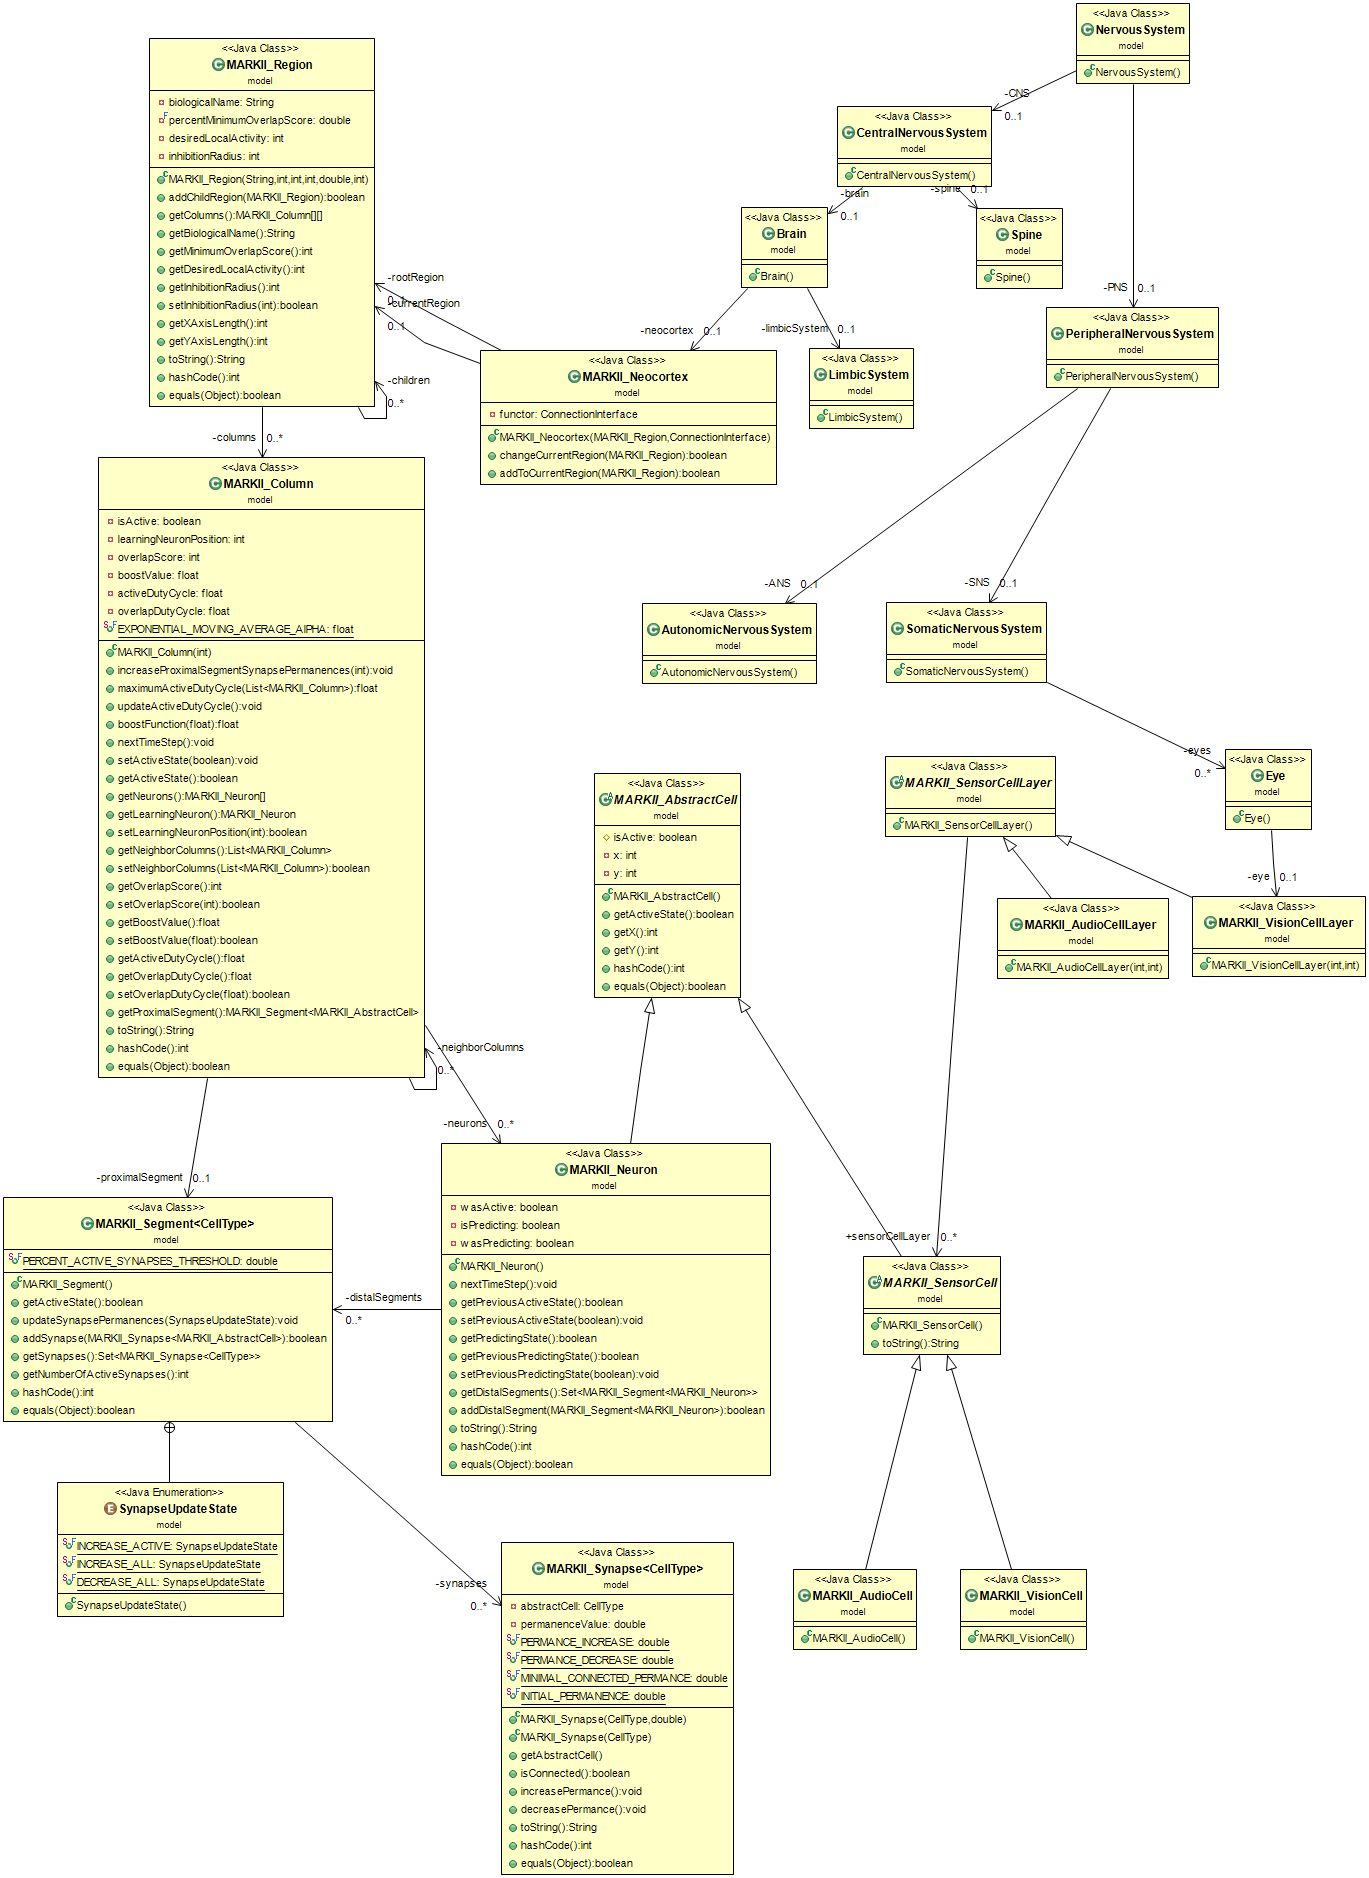
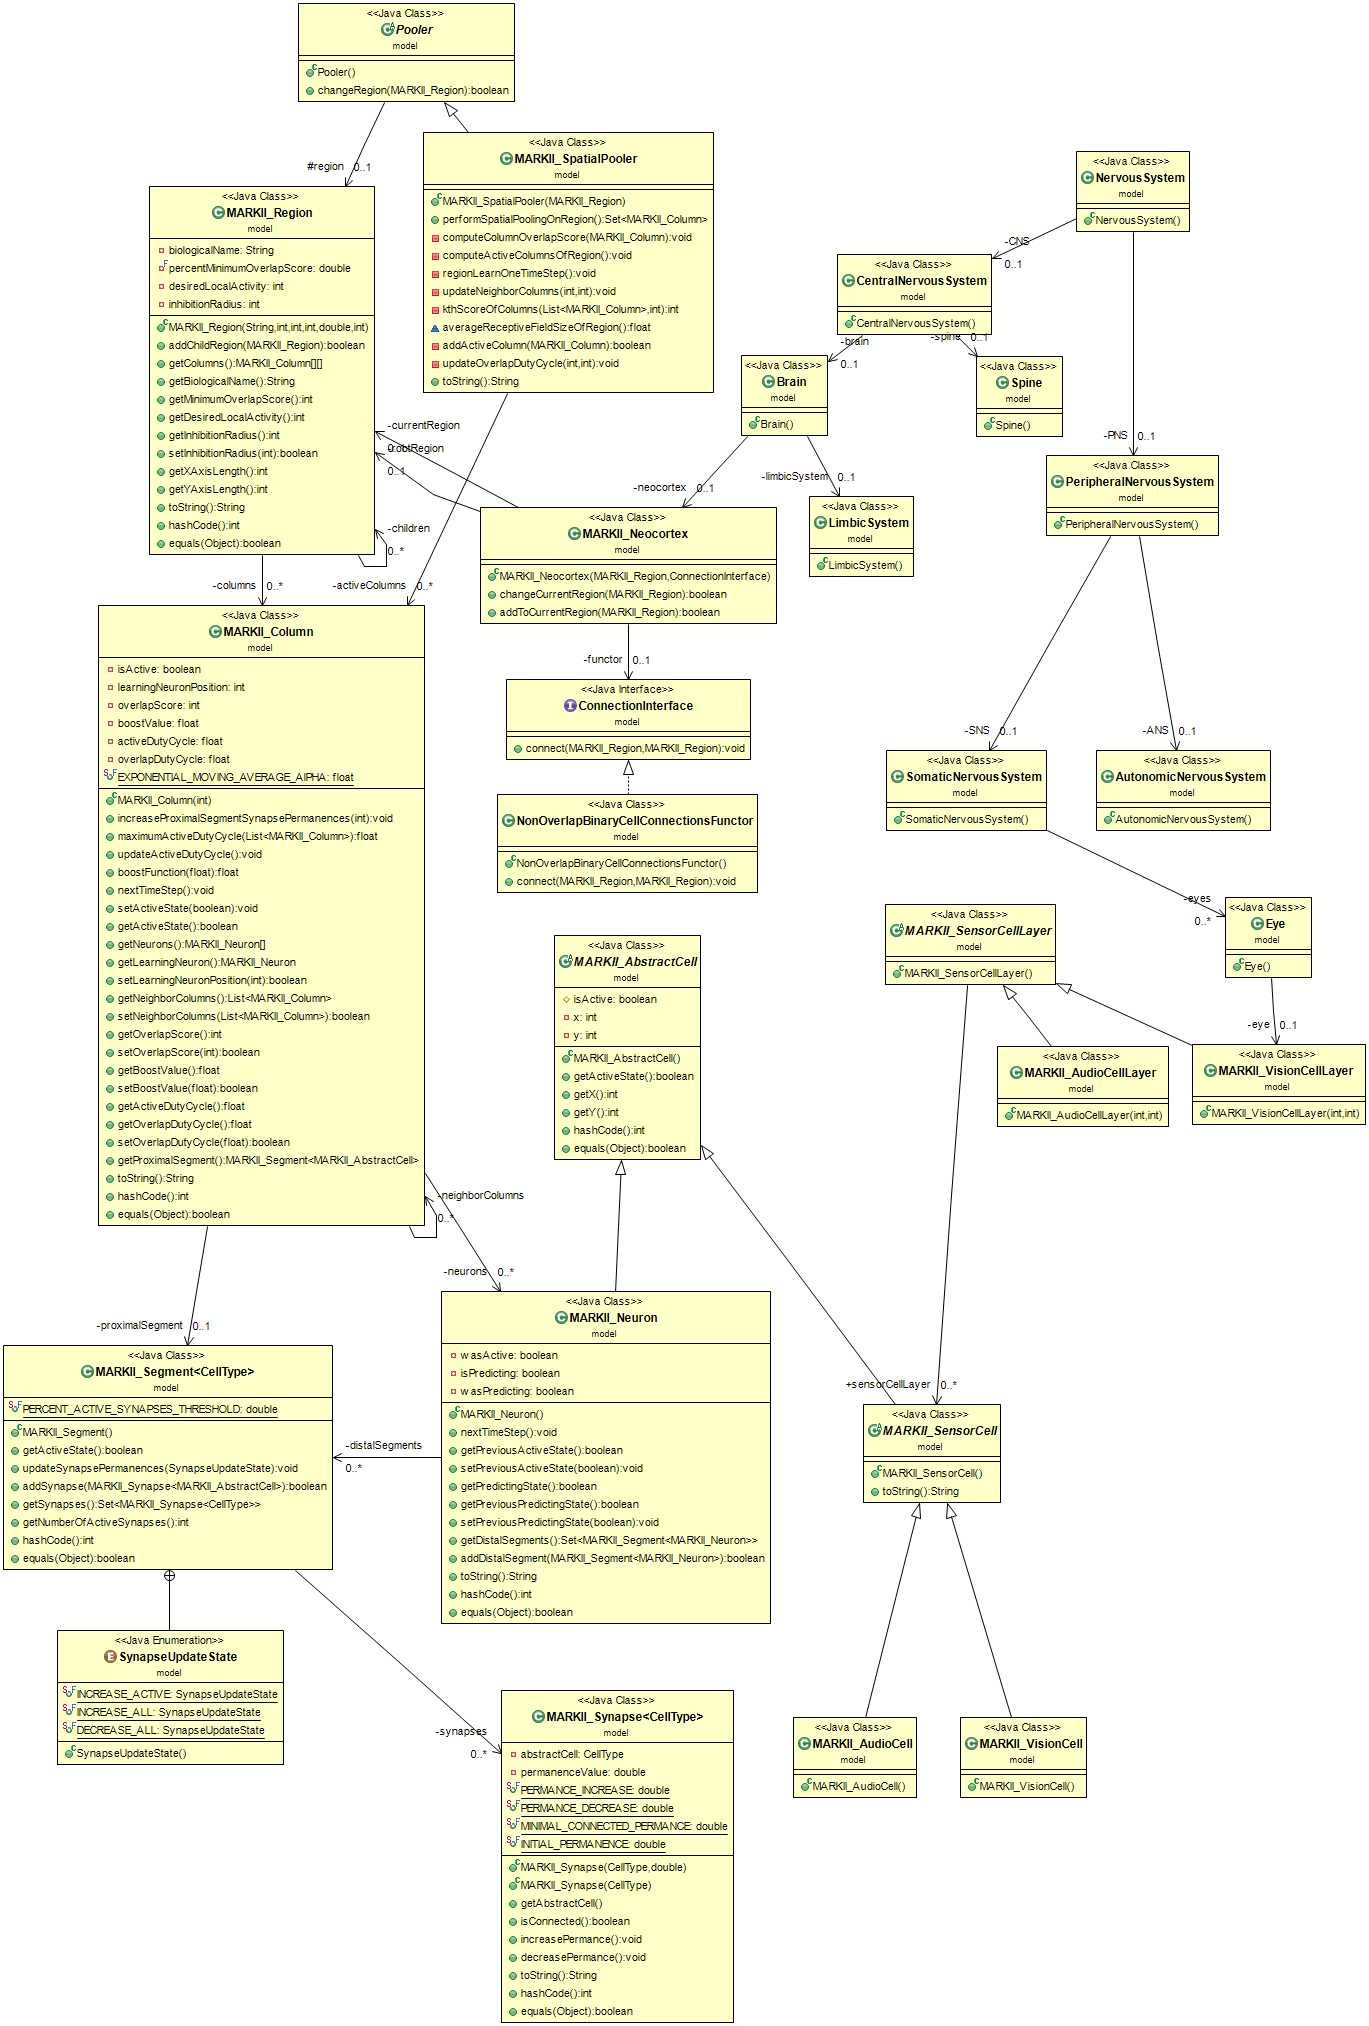
Updated comments!

diff --git a/WalnutiQ/src/model/MARKII_Synapse.java b/WalnutiQ/src/model/MARKII_Synapse.java
@@ -58,7 +58,7 @@ public class MARKII_Synapse<CellType extends MARKII_AbstractCell> implements
      */
     public MARKII_Synapse(CellType abstractCell, double initialPermanence) {
 	this.abstractCell = abstractCell;
-	this.permanenceValue = initialPermanence;
+	this.setPermanenceValue(initialPermanence);
     }
 
     /**
@@ -71,7 +71,7 @@ public class MARKII_Synapse<CellType extends MARKII_AbstractCell> implements
      */
     public MARKII_Synapse(CellType abstractCell) {
 	this.abstractCell = abstractCell;
-	this.permanenceValue = INITIAL_PERMANENCE;
+	this.setPermanenceValue(INITIAL_PERMANENCE);
     }
 
     /**
@@ -93,7 +93,7 @@ public class MARKII_Synapse<CellType extends MARKII_AbstractCell> implements
      */
     public boolean isConnected()
     {
-	return (this.permanenceValue >= MINIMAL_CONNECTED_PERMANCE);
+	return (this.getPermanenceValue() >= MINIMAL_CONNECTED_PERMANCE);
     }
 
     /**
@@ -101,8 +101,8 @@ public class MARKII_Synapse<CellType extends MARKII_AbstractCell> implements
      * while forcing permanenceValue to always be < 1.0.
      */
     public void increasePermance() {
-	this.permanenceValue = Math.min(1.0, this.permanenceValue
-		+ PERMANCE_INCREASE);
+	this.setPermanenceValue(Math.min(1.0, this.getPermanenceValue()
+		+ PERMANCE_INCREASE));
     }
 
     /**
@@ -110,8 +110,8 @@ public class MARKII_Synapse<CellType extends MARKII_AbstractCell> implements
      * while forcing permanenceValue to always be > 0.0.
      */
     public void decreasePermance() {
-	this.permanenceValue = Math.max(0.0, this.permanenceValue
-		- PERMANCE_DECREASE);
+	this.setPermanenceValue(Math.max(0.0, this.getPermanenceValue()
+		- PERMANCE_DECREASE));
     }
 
     @Override
@@ -123,7 +123,7 @@ public class MARKII_Synapse<CellType extends MARKII_AbstractCell> implements
 	stringBuilder.append("\n       Connected to a: ");
 	stringBuilder.append("this.abstractCell.toString()");
 	stringBuilder.append("\n      permanenceValue: ");
-	stringBuilder.append(this.permanenceValue);
+	stringBuilder.append(this.getPermanenceValue());
 	stringBuilder.append("\n          isConnected: ");
 	if (this.getAbstractCell() == null) {
 	    stringBuilder.append("false");
@@ -142,7 +142,7 @@ public class MARKII_Synapse<CellType extends MARKII_AbstractCell> implements
 	result = prime * result
 		+ ((abstractCell == null) ? 0 : abstractCell.hashCode());
 	long temp;
-	temp = Double.doubleToLongBits(permanenceValue);
+	temp = Double.doubleToLongBits(getPermanenceValue());
 	result = prime * result + (int) (temp ^ (temp >>> 32));
 	return result;
     }
@@ -161,9 +161,17 @@ public class MARKII_Synapse<CellType extends MARKII_AbstractCell> implements
 		return false;
 	} else if (!abstractCell.equals(other.abstractCell))
 	    return false;
-	if (Double.doubleToLongBits(permanenceValue) != Double
-		.doubleToLongBits(other.permanenceValue))
+	if (Double.doubleToLongBits(getPermanenceValue()) != Double
+		.doubleToLongBits(other.getPermanenceValue()))
 	    return false;
 	return true;
+    }
+
+    public double getPermanenceValue() {
+	return permanenceValue;
+    }
+
+    public void setPermanenceValue(double permanenceValue) {
+	this.permanenceValue = permanenceValue;
     }
 }

diff --git a/WalnutiQ/src/model/MARKII_SpatialPooler.java b/WalnutiQ/src/model/MARKII_SpatialPooler.java
@@ -9,7 +9,15 @@ import java.util.List;
 import java.util.Set;
 import java.util.HashSet;
 
-public class MARKII_SpatialPooler extends Pooler {
+/**
+ * Provides implementation for running the spatial learning algorithm on a
+ * region. This class provides methods that simulate brain activity within
+ * the neocortex for object recognition.
+ *
+ * @author Quinn Liu (quinnliu@vt.edu)
+ * @version MARK II | April 28, 2013
+ */
+public class MARKII_SpatialPooler extends MARKII_Pooler {
     private Set<MARKII_Column> activeColumns;
 
     public MARKII_SpatialPooler(MARKII_Region newRegion) {
@@ -248,7 +256,7 @@ public class MARKII_SpatialPooler extends Pooler {
      *
      * @return The average connected receptive field size.
      */
-    float averageReceptiveFieldSizeOfRegion() {
+    private float averageReceptiveFieldSizeOfRegion() {
 	double totalSynapseDistanceFromOriginColumn = 0.0;
 	int numberOfSynapses = 0;
 	MARKII_Column[][] columns = this.region.getColumns();

diff --git a/WalnutiQ/src/model/MARKII_NonOverlapBinaryCellConnectionsFunctor.java b/WalnutiQ/src/model/MARKII_NonOverlapBinaryCellConnectionsFunctor.java
@@ -1,6 +1,14 @@
 package model;
 
-public class NonOverlapBinaryCellConnectionsFunctor implements
+/**
+ * A functor class that provides the implementation for connecting a lower
+ * region to a higher region with non-overlaping proximal segments.
+ *
+ * @author Quinn Liu (quinnliu@vt.edu)
+ * @author Michael Cogswell (cogswell@vt.edu)
+ * @version MARK II | April 28, 2013
+ */
+public class MARKII_NonOverlapBinaryCellConnectionsFunctor implements
 	ConnectionInterface {
     // connect two regions with overlap as undirected bipartite graph
     public void connect(MARKII_Region parentRegion, MARKII_Region childRegion) {

diff --git a/WalnutiQ/src/model/MARKII_SensorCellLayer.java b/WalnutiQ/src/model/MARKII_SensorCellLayer.java
@@ -2,6 +2,13 @@ package model;
 
 import java.io.Serializable;
 
+/**
+ * A data structure that represents a layer of input bits from an external sensor
+ * source.
+ *
+ * @author Quinn Liu (quinnliu@vt.edu)
+ * @version MARK II | April 4, 2013
+ */
 public abstract class MARKII_SensorCellLayer implements Serializable {
     public MARKII_SensorCell[][] sensorCellLayer;
 

diff --git a/WalnutiQ/src/model/MARKII_Pooler.java b/WalnutiQ/src/model/MARKII_Pooler.java
@@ -1,6 +1,12 @@
 package model;
 
-public abstract class Pooler {
+/**
+ * Abstract class extended by SpatialPooler and TemporalPooler class.
+ *
+ * @author Quinn Liu (quinnliu@vt.edu)
+ * @version MARK II | April 28, 2013
+ */
+public abstract class MARKII_Pooler {
     protected MARKII_Region region;
 
     // TODO: how to make this code parallel

diff --git a/WalnutiQ/src/model/MARKII_VisionCellLayer.java b/WalnutiQ/src/model/MARKII_VisionCellLayer.java
@@ -1,5 +1,11 @@
 package model;
 
+/**
+ * A data structure that represents the layer of cells within the retina.
+ *
+ * @author Quinn Liu (quinnliu@vt.edu)
+ * @version MARK II | April 4, 2013
+ */
 public class MARKII_VisionCellLayer extends MARKII_SensorCellLayer {
 
     public MARKII_VisionCellLayer(int numberOfVisionCellsAlongXAxis,

diff --git a/WalnutiQ/tests/model/Test_MARKII_Segment.java b/WalnutiQ/tests/model/Test_MARKII_Segment.java
@@ -2,7 +2,7 @@ package model;
 
 import model.MARKII_Segment.SynapseUpdateState;
 
-public class TestMARKII_Segment extends junit.framework.TestCase{
+public class Test_MARKII_Segment extends junit.framework.TestCase{
 
 //    private MARKII_Segment<MARKII_AbstractCell> proximalSegment;
 //

diff --git a/WalnutiQ/src/model/MARKII_VisionCell.java b/WalnutiQ/src/model/MARKII_VisionCell.java
@@ -1,5 +1,11 @@
 package model;
 
+/**
+ * A data structure that represents a single cell within the retina.
+ *
+ * @author Quinn Liu (quinnliu@vt.edu)
+ * @version MARK II | April 4, 2013
+ */
 public class MARKII_VisionCell extends MARKII_SensorCell {
 
     public MARKII_VisionCell()

diff --git a/WalnutiQ/src/model/TemporalPooler.java b/WalnutiQ/src/model/TemporalPooler.java
@@ -2,7 +2,7 @@ package model;
 
 import java.util.Set;
 
-public class TemporalPooler extends Pooler {
+public class TemporalPooler extends MARKII_Pooler {
     public TemporalPooler(MARKII_Region newRegion)
     {
 	this.region = newRegion;

diff --git a/WalnutiQ/src/model/TEMP_DistalSegment.java b/WalnutiQ/src/model/TEMP_DistalSegment.java
@@ -1,3 +1,4 @@
+package model;
 //package model;
 //
 //import java.util.HashSet;
